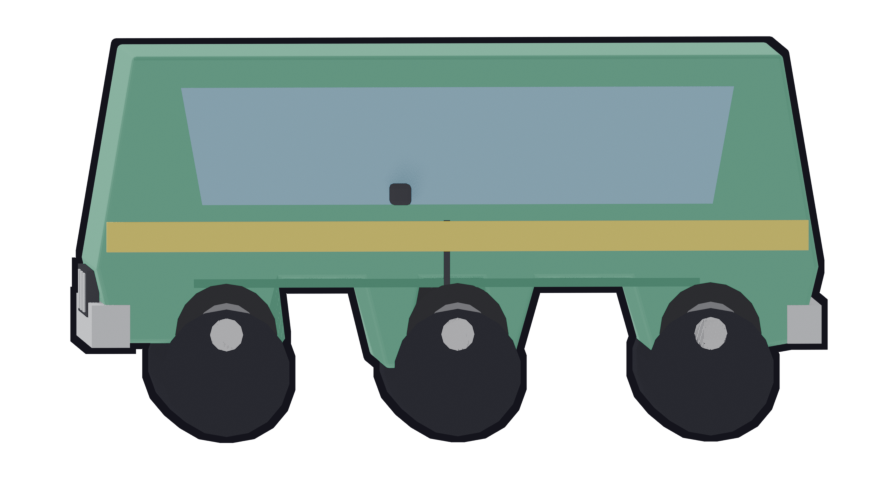
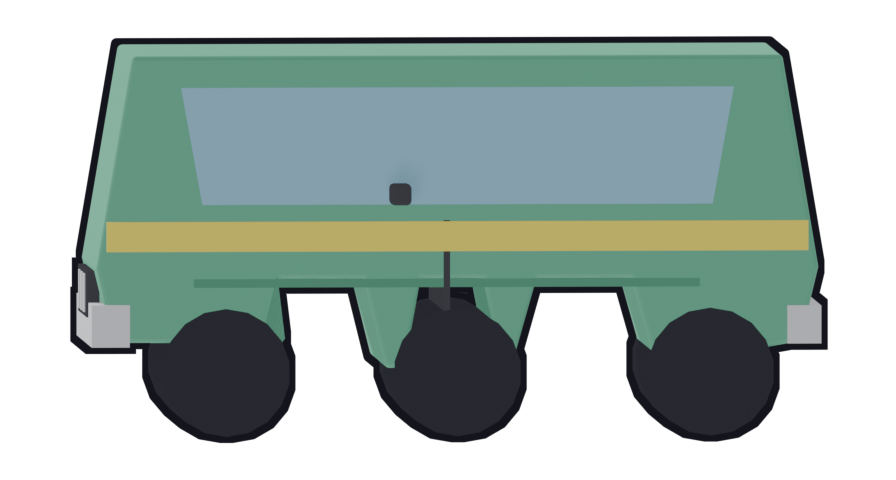
Fix: centered lane dash, spoked spinning tires, cruise bob
- Symmetric lane baselines so the single divider sits at road center
- Re-export car bodies with empty arches + gold-spoke tire overlays that roll
- Subtle cruise bob so aiming isn’t a frozen hover

diff --git a/lib/components/car.dart b/lib/components/car.dart
@@ -41,6 +41,8 @@ class Car extends PositionComponent
   bool get isSplatted => hitsTaken >= type.hitPoints;
 
   final List<SplatMark> _marks = [];
+  final List<SpriteComponent> _tires = [];
+  double _tireDiameter = 24;
 
   /// Centre of the roof, where splats land.
   Vector2 get roofCenter =>
@@ -56,12 +58,31 @@ class Car extends PositionComponent
     add(RectangleHitbox(collisionType: CollisionType.passive, isSolid: true));
   }
 
-  /// Adds the sprite-based body. Cars that draw themselves override this.
+  /// Body sprite (arches cut out) + spinning tires with visible spokes.
   Future<void> buildVisuals() async {
     final bodySprite = await game.loadSprite(type.bodyAsset!);
-    // Blender toon assets already face left and include wheels — do not
-    // mirror or bolt on tire.png (that caused a second pair of tires).
-    add(SpriteComponent(sprite: bodySprite, size: size.clone()));
+    final visuals = PositionComponent(size: size);
+
+    if (type.wheelsInSprite) {
+      // Bosses keep baked wheels — too many axles to fake cleanly.
+      visuals.add(SpriteComponent(sprite: bodySprite, size: size.clone()));
+    } else {
+      visuals.add(SpriteComponent(sprite: bodySprite, size: size.clone()));
+      final tireSprite = await game.loadSprite('tire.png');
+      _tireDiameter = size.y * 0.36;
+      // Sit tires in the wheel arches (body faces left).
+      for (final x in const [0.22, 0.78]) {
+        final tire = SpriteComponent(
+          sprite: tireSprite,
+          size: Vector2.all(_tireDiameter),
+          position: Vector2(size.x * x, size.y - _tireDiameter * 0.42),
+          anchor: Anchor.center,
+        );
+        _tires.add(tire);
+        visuals.add(tire);
+      }
+    }
+    add(visuals);
   }
 
   /// Where the splat for the [hit]th hit goes, relative to the car.
@@ -105,6 +126,15 @@ class Car extends PositionComponent
     super.update(dt);
     if (isRemoving) return;
     position.x -= speed * dt;
+
+    // Moving left → clockwise roll on screen (Flame angle increases clockwise).
+    if (_tires.isNotEmpty && _tireDiameter > 0) {
+      final roll = speed * dt / (_tireDiameter / 2);
+      for (final tire in _tires) {
+        tire.angle += roll;
+      }
+    }
+
     if (position.x + size.x < 0) onLeftScreen();
   }
 

diff --git a/lib/components/street.dart b/lib/components/street.dart
@@ -5,19 +5,20 @@ import 'package:flame/components.dart';
 import '../game/config.dart';
 import '../game/poopy_bird_game.dart';
 
-/// The road: Blender asphalt strip plus dashed lane divider overlays.
+/// The road: Blender asphalt strip plus a single centered lane divider.
 class Street extends Component with HasGameReference<PoopyBirdGame> {
   Street() : super(priority: 0);
 
-  static const double _dashLength = 28;
-  static const double _dashGap = 18;
+  static const double _dashLength = 32;
+  static const double _dashGap = 20;
   static const double _loopWidth = 1200;
 
   static final Paint _fallback = Paint()..color = const Color(0xFF2A3034);
   static final Paint _curb = Paint()..color = const Color(0xFFB0B0B0);
   static final Paint _dash = Paint()
     ..color = const Color(0xFFFFD600)
-    ..strokeWidth = 5;
+    ..strokeWidth = 5
+    ..strokeCap = StrokeCap.round;
 
   double scrollOffset = 0;
   Sprite? _strip;
@@ -48,13 +49,13 @@ class Street extends Component with HasGameReference<PoopyBirdGame> {
     // Far curb under the apartments — keeps skyline visually planted.
     canvas.drawRect(Rect.fromLTWH(0, top - 4, width, 10), _curb);
 
+    // One divider, centered between the two lane baselines (= road mid).
     final baselines = GameConfig.laneBaselines;
-    for (var i = 0; i < baselines.length - 1; i++) {
-      final y = top + game.roadHeight * ((baselines[i] + baselines[i + 1]) / 2);
-      const period = _dashLength + _dashGap;
-      for (var x = -(scrollOffset % period); x < width; x += period) {
-        canvas.drawLine(Offset(x, y), Offset(x + _dashLength, y), _dash);
-      }
+    final mid = (baselines.first + baselines.last) / 2;
+    final y = top + game.roadHeight * mid;
+    const period = _dashLength + _dashGap;
+    for (var x = -(scrollOffset % period); x < width; x += period) {
+      canvas.drawLine(Offset(x, y), Offset(x + _dashLength, y), _dash);
     }
   }
 }

diff --git a/lib/game/config.dart b/lib/game/config.dart
@@ -16,6 +16,10 @@ abstract final class GameConfig {
   /// Seconds after a flap before settle-down toward cruise kicks in.
   static const double flapHangTime = 0.35;
 
+  /// Gentle vertical bob on cruise so aiming isn't a static hover.
+  static const double cruiseBobAmplitude = 10;
+  static const double cruiseBobHz = 0.55;
+
   // Poop
   static const double poopCooldown = 0.5;
   static const double rapidFireCooldown = 0.12;
@@ -52,8 +56,8 @@ abstract final class GameConfig {
   static const double roadHeightFraction = 0.48;
 
   /// Where each lane's cars stand, as a fraction of road height from the road
-  /// top. Lane 0 is the far lane, lane 1 is nearest the viewer.
-  static const List<double> laneBaselines = [0.40, 0.86];
+  /// top. Symmetric around 0.5 so the dashed divider sits in the visual center.
+  static const List<double> laneBaselines = [0.30, 0.70];
 
   // Cars
   /// Minimum empty space between two cars in the same lane at spawn time.

diff --git a/lib/components/bird.dart b/lib/components/bird.dart
@@ -112,9 +112,10 @@ class Bird extends PositionComponent
 
     velocityY += GameConfig.gravity * dt;
 
-    // Settle toward cruise so you aren't flapping every second to stay up.
-    // After a hop, hang briefly so food is grab-able, then drift back down.
-    final cruise = game.cruiseY;
+    // Settle toward a gently bobbing cruise — stable, but aim isn't frozen.
+    final bob = sin(game.elapsed * GameConfig.cruiseBobHz * pi * 2) *
+        GameConfig.cruiseBobAmplitude;
+    final cruise = game.cruiseY + bob;
     final settling = _sinceFlap >= GameConfig.flapHangTime;
     if (settling) {
       final delta = cruise - position.y;

diff --git a/lib/systems/car_type.dart b/lib/systems/car_type.dart
@@ -148,8 +148,15 @@ enum CarType {
   /// Splat fills rage instead of draining it.
   final bool raisesRageOnHit;
 
-  /// Blender toon cars already bake wheels into the body sprite.
-  bool get wheelsInSprite => true;
+  /// Only dedicated boss plates bake wheels. Shared plates (bus/limo bosses)
+  /// use the same spinning overlays as traffic.
+  bool get wheelsInSprite => switch (this) {
+        CarType.carWashTruck ||
+        CarType.mayorLimo ||
+        CarType.monsterTruck =>
+          true,
+        _ => false,
+      };
 
   static CarType parse(String name) {
     for (final type in values) {

diff --git a/tools/blender/models.py b/tools/blender/models.py
@@ -758,28 +758,47 @@ def build_medal(*, with_outline: bool = True) -> bpy.types.Object:
 
 
 def build_tire(*, with_outline: bool = True) -> bpy.types.Object:
-    rubber = toon_material("tire", (0.08, 0.08, 0.09, 1.0), steps=2)
-    hub = toon_material("tire_hub", (0.75, 0.75, 0.78, 1.0), steps=2)
-    rim = toon_material("tire_rim", (0.4, 0.4, 0.42, 1.0), steps=2)
-    tire = mesh_cylinder("tire", 0.52, 0.24, (0, 0, 0), rubber, vertices=24)
-    ring = mesh_cylinder("rim", 0.32, 0.26, (0, 0, 0), rim, vertices=16)
-    cap = mesh_cylinder("hub", 0.18, 0.28, (0, 0, 0), hub, vertices=12)
-    # Tread nubs.
-    nubs = []
-    for i in range(8):
-        a = i * (math.pi * 2 / 8)
-        nubs.append(
-            mesh_cube(
-                f"tread{i}",
-                (0.08, 0.26, 0.1),
-                (math.cos(a) * 0.5, 0, math.sin(a) * 0.5),
-                rubber,
-            )
+    """Circular face with bold 5-spoke hub so in-game spin is readable.
+
+    Built in the XZ plane, then tipped so a +Y camera sees the face.
+    """
+    rubber = toon_material("tire", (0.07, 0.07, 0.08, 1.0), steps=2)
+    hub = toon_material("tire_hub", (0.88, 0.88, 0.90, 1.0), steps=2)
+    rim = toon_material("tire_rim", (0.35, 0.35, 0.38, 1.0), steps=2)
+    spoke_mat = toon_material("tire_spoke", (0.95, 0.8, 0.18, 1.0), steps=2)
+    # Cylinder along Y so +Y camera looks straight at the circular face.
+    tire = mesh_cylinder(
+        "tire", 0.52, 0.22, (0, 0, 0), rubber, vertices=28,
+        rotation=(math.radians(90), 0, 0),
+    )
+    ring = mesh_cylinder(
+        "rim", 0.34, 0.24, (0, 0, 0), rim, vertices=20,
+        rotation=(math.radians(90), 0, 0),
+    )
+    cap = mesh_cylinder(
+        "hub", 0.14, 0.28, (0, 0, 0), hub, vertices=14,
+        rotation=(math.radians(90), 0, 0),
+    )
+    parts = [tire, ring, cap]
+    for i in range(5):
+        a = i * (math.pi * 2 / 5)
+        spoke = mesh_cube(
+            f"spoke{i}",
+            (0.3, 0.1, 0.09),
+            (math.cos(a) * 0.2, 0.02, math.sin(a) * 0.2),
+            spoke_mat,
         )
-    root = join_objects([tire, ring, cap, *nubs], "tire")
-    root.rotation_euler = Euler((0, math.radians(90), 0))
-    apply_loc_rot_scale(root)
-    return root
+        spoke.rotation_euler = Euler((0, 0, a))
+        apply_loc_rot_scale(spoke)
+        parts.append(spoke)
+    # Valve stem — off-center cue for spin.
+    parts.append(
+        mesh_uv_sphere(
+            "valve", 0.06, (0.0, 0.06, 0.42), hub,
+            segments=10, ring_count=8,
+        )
+    )
+    return join_objects(parts, "tire")
 
 
 def build_skyline_tile(*, seed: int, near: bool, length: float = 12.0):

diff --git a/tools/blender/export_all.py b/tools/blender/export_all.py
@@ -112,7 +112,8 @@ def export_cars():
     for kind, color in CAR_COLORS.items():
         _render_subject(
             f"car_{kind}.png",
-            lambda k=kind, c=color: build_car(k, body_color=c, with_wheels=True),
+            # Bodies with arched wells only — spinning tire.png overlays in-game.
+            lambda k=kind, c=color: build_car(k, body_color=c, with_wheels=False),
             axis="CAR",
             resolution=(896, 480),
             outline=6,
